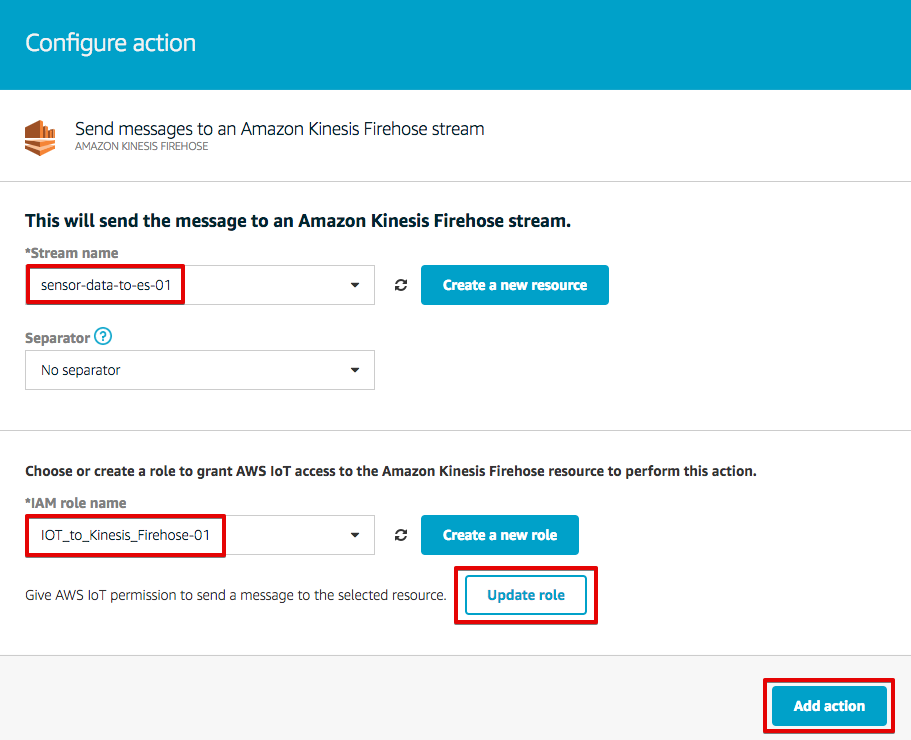
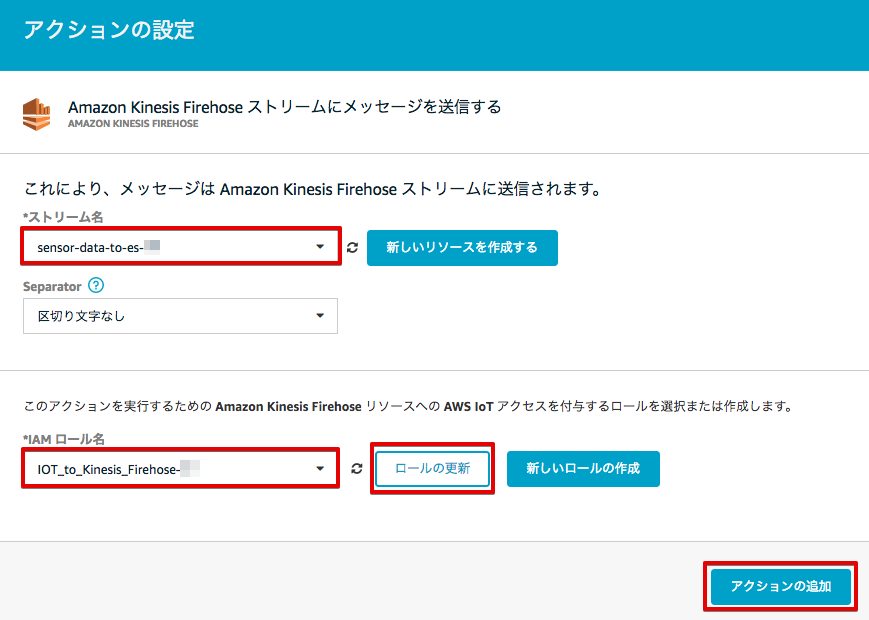
Update

diff --git a/docs/07.rst b/docs/07.rst
@@ -246,7 +246,7 @@ IAM ロール名      IOT_to_Kinesis_Firehose-<参加者番号>
 
 |
 
-Create a rule画面に戻ります。[Create rule]  をクリックして、ルールを作成します。
+「ルールを作成する」画面に戻ります。[ルールを作成する] をクリックして、ルールを作成します。
 
 .. image:: images/07/create-rule-3.png
 
